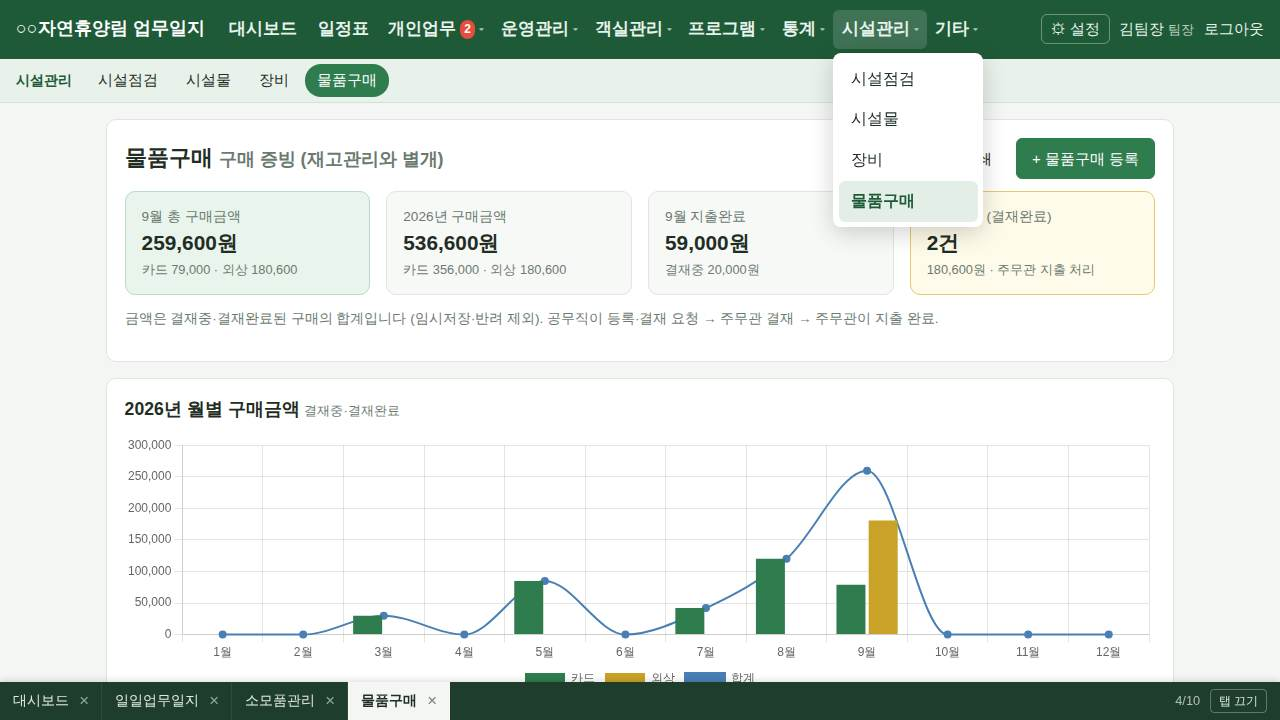
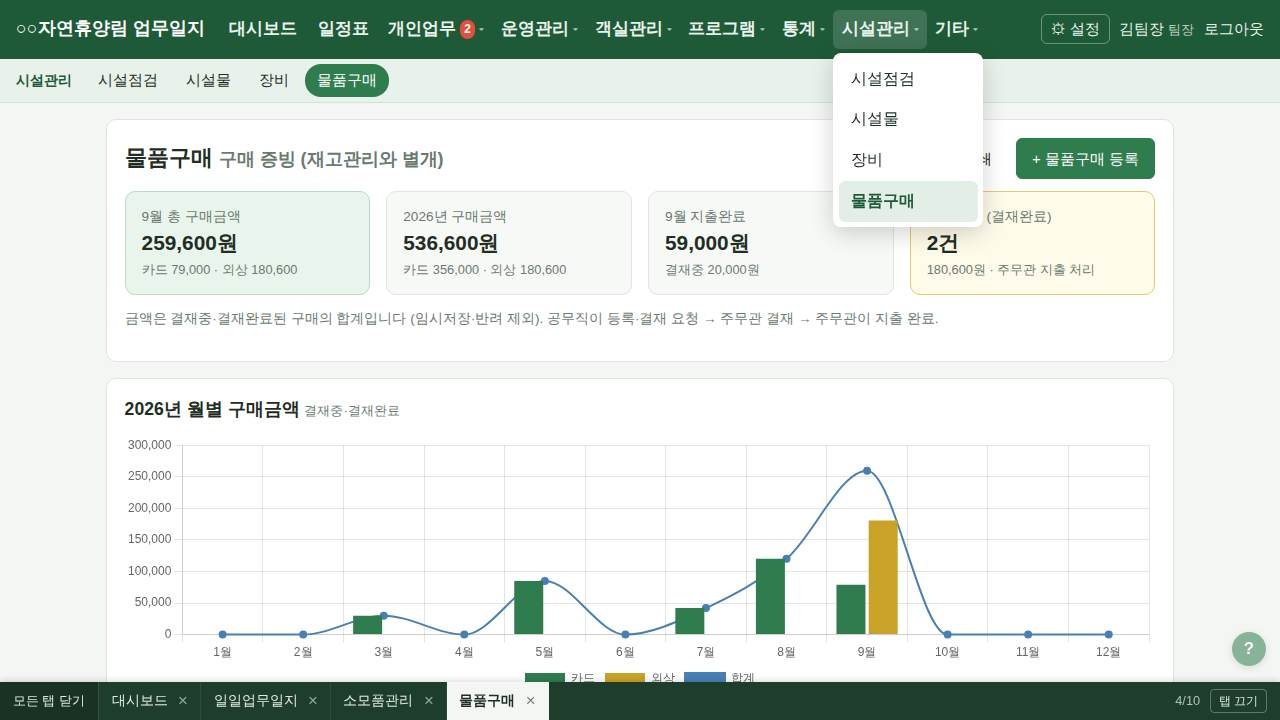
하단 탭 맨 왼쪽에 '모든 탭 닫기' (지금 탭만 남김, 입력 중 탭 확인), 도움말 갱신
Claude-Session: https://claude.ai/code/session_01Lr6yxKyasrSL9QLfMX5TX8

Changed region(s): [[0.0, 0.9472, 0.4375, 1.0], [0.9375, 0.8556, 1.0, 0.9472]]

diff --git a/assets/tabs.js b/assets/tabs.js
@@ -28,6 +28,7 @@
       bar.appendChild(b);
     });
     document.querySelector('[data-tab-count]').textContent = `${tabs.length}/${CFG.max}`;
+    document.querySelector('[data-tabs-closeall]').disabled = tabs.length < 2;
     const t = tabs.find((x) => x.id === active);
     document.title = (t && t.title ? t.title : '업무일지') + CFG.site;
     syncMenu(t);
@@ -120,6 +121,17 @@
     document.body.classList.remove('nav-open');
     document.querySelectorAll('.nav-group.open').forEach((g) => g.classList.remove('open'));
     open(url, { title: a.textContent.trim() });
+  });
+
+  // 모든 탭 닫기: 지금 보는 탭만 남긴다 (입력 중인 탭이 있으면 확인)
+  document.querySelector('[data-tabs-closeall]').addEventListener('click', () => {
+    const others = tabs.filter((t) => t.id !== active);
+    if (!others.length) return;
+    const busy = others.filter(dirty);
+    if (busy.length && !confirm(`입력 중인 탭이 ${busy.length}개 있습니다 (${busy.map((t) => t.title).join(', ')}).\n닫으면 입력한 내용이 사라집니다. 지금 탭만 남기고 모두 닫을까요?`)) return;
+    others.forEach(removeTab);
+    render();
+    save();
   });
 
   // 각 페이지의 '?' 버튼: 도움말 탭을 열고(이미 있으면 그 탭) 해당 항목으로

diff --git a/assets/style.css b/assets/style.css
@@ -1058,3 +1058,7 @@ body.tab-shell > main.container .tab-frames { bottom: 38px; }
   .help-layout { grid-template-columns: 1fr; }
   .help-toc { position: static; max-height: 45vh; }
 }
+.tabbar-closeall { flex: 0 0 auto; border: 0; border-right: 1px solid rgba(255,255,255,.15); background: rgba(0,0,0,.18); color: inherit;
+  padding: 0 .8rem; font-size: .8rem; cursor: pointer; white-space: nowrap; }
+.tabbar-closeall:hover:not(:disabled) { background: rgba(255,255,255,.12); }
+.tabbar-closeall:disabled { opacity: .45; cursor: default; }

diff --git a/app/changelog.php b/app/changelog.php
@@ -7,6 +7,9 @@ defined('APP_ROOT') || exit;
  *   ['date' => 'YYYY-MM-DD', 'title' => '한 줄 요약', 'items' => ['자세한 내용', ...], 'menu' => '관련 메뉴(선택)']
  */
 const CHANGELOG = [
+    ['date' => '2026-09-25', 'title' => "하단 탭에 '모든 탭 닫기'", 'menu' => '탭', 'items' => [
+        "하단 탭 맨 왼쪽의 '모든 탭 닫기'를 누르면 지금 보는 탭만 남기고 나머지 탭을 한 번에 닫습니다. 입력 중인 탭이 있으면 먼저 확인합니다.",
+    ]],
     ['date' => '2026-09-25', 'title' => '도움말 신설, 탭 최대 10개', 'menu' => '기타 › 도움말', 'items' => [
         '기타 › 도움말: 기능별 사용 방법을 목차(트리)로 보고 검색합니다. 항목마다 화면 예시가 있습니다.',
         '모든 화면 오른쪽 아래의 ? 버튼을 누르면 그 화면의 도움말로 바로 갑니다 (탭 화면에서는 도움말 탭으로).',

diff --git a/app/help.php b/app/help.php
@@ -30,6 +30,7 @@ HTML],
   <li>입력 중인 탭에는 <b>●</b> 표시가 붙고, 닫을 때 확인합니다. 저장하면 ● 가 사라집니다.</li>
   <li>탭은 <b>최대 10개</b>. 더 열면 입력 중이 아닌 탭 가운데 가장 오래 안 본 탭을 닫을지 묻습니다.</li>
   <li>× 또는 휠 클릭으로 탭을 닫습니다. 새로고침해도 열린 탭은 다시 열립니다(입력 중이던 내용은 사라짐).</li>
+  <li>하단 맨 왼쪽 <b>모든 탭 닫기</b>: 지금 보는 탭만 남기고 나머지를 한 번에 닫습니다. 입력 중인 탭이 있으면 먼저 확인합니다.</li>
   <li>하단 오른쪽 <b>탭 끄기</b>로 예전처럼 한 화면으로 쓰고, 상단의 <b>🗂 탭 켜기</b>로 다시 켭니다. 휴대폰에서는 탭 없이 엽니다.</li>
 </ul>
 HTML],

diff --git a/shell.php b/shell.php
@@ -13,6 +13,7 @@ layout_header('업무일지', '', ['shell' => true]);
 ?>
 <div class="tab-frames" data-frames></div>
 <div class="tabbar no-print">
+  <button type="button" class="tabbar-closeall" data-tabs-closeall title="지금 보는 탭만 남기고 모두 닫기">모든 탭 닫기</button>
   <div class="tabbar-tabs" data-tabs></div>
   <div class="tabbar-tools">
     <span class="tabbar-count" data-tab-count></span>
